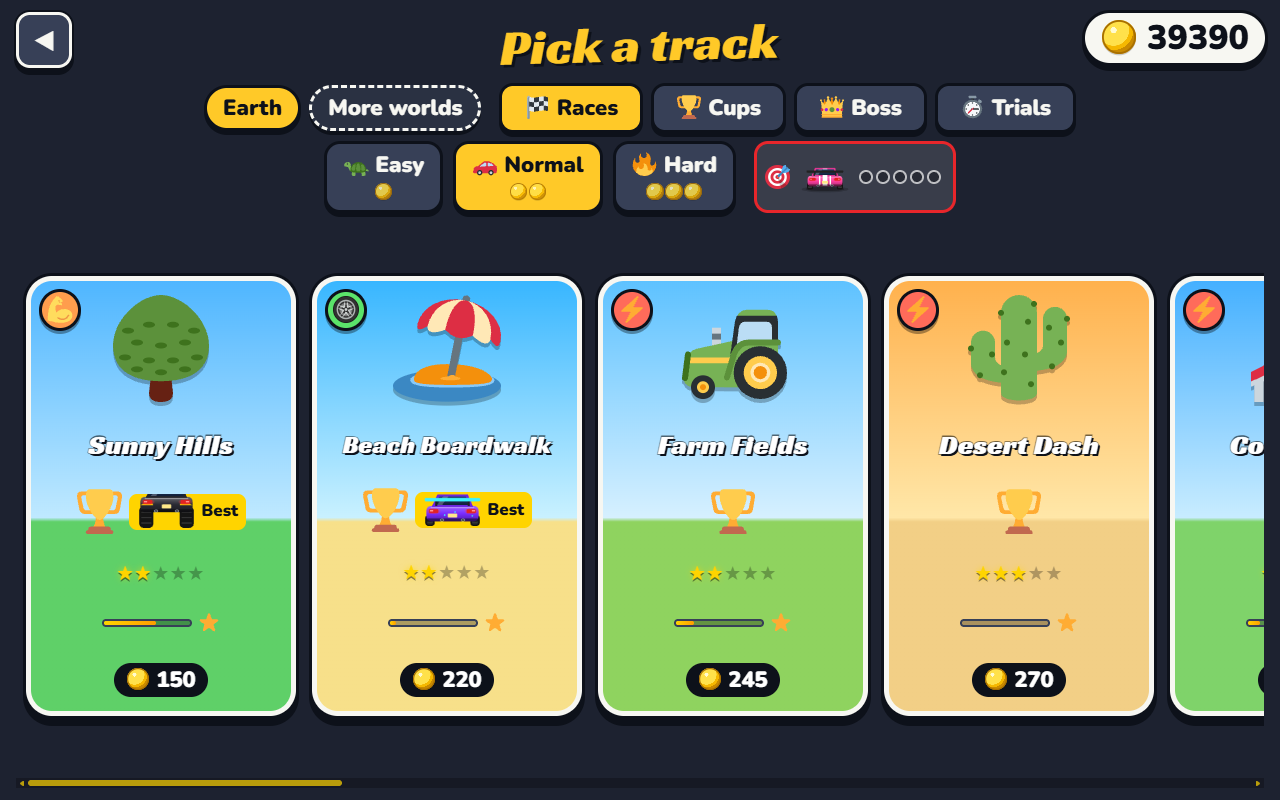
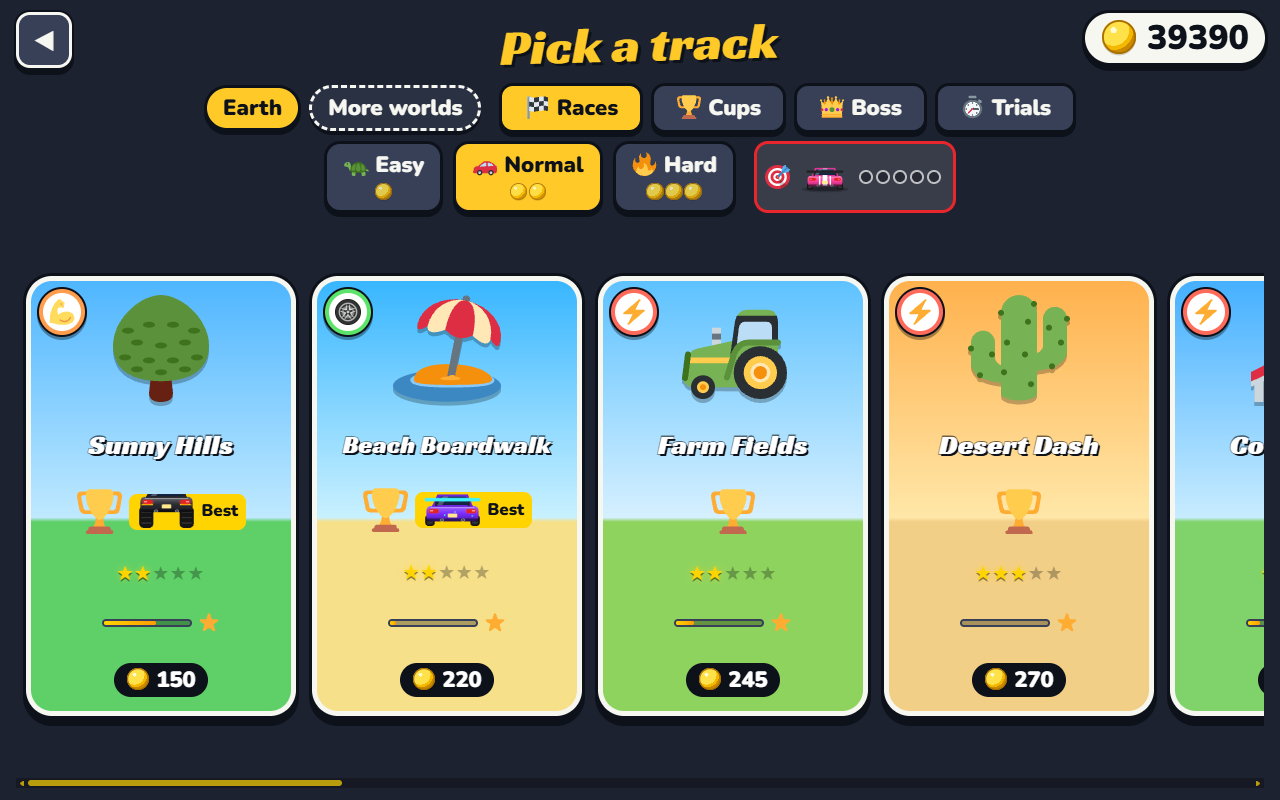
Best card: the track's sign small and beside the track picture; guard: the track list picture with the white signs, accepted on purpose

diff --git a/styles.css b/styles.css
@@ -1344,3 +1344,6 @@ body.on-panel .coinbar { left: auto; right: max(12px, env(safe-area-inset-right)
 /* upright, the card is one row: the badge sits in the row before the track's picture (both top corners are taken
    there, by the picture and the trophy) */
 @media (orientation: portrait) { .track-card .tc-kind { position: static; flex: 0 0 auto; align-self: flex-start; margin-right: -8px; } }
+/* the Best card's track sign: small, beside the track's big picture (it took the picture's size at first) */
+.bc-track { white-space: nowrap; }
+.bc-track .kind-dot { font-size: max(16px, 0.36em); vertical-align: bottom; margin-left: -0.2em; }
